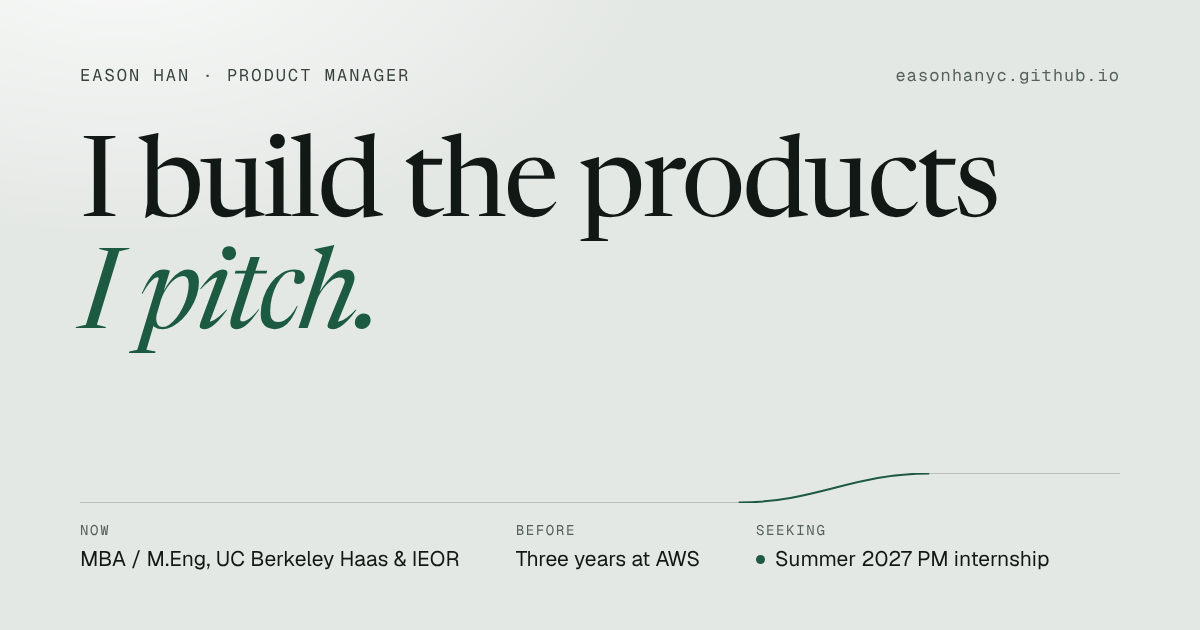
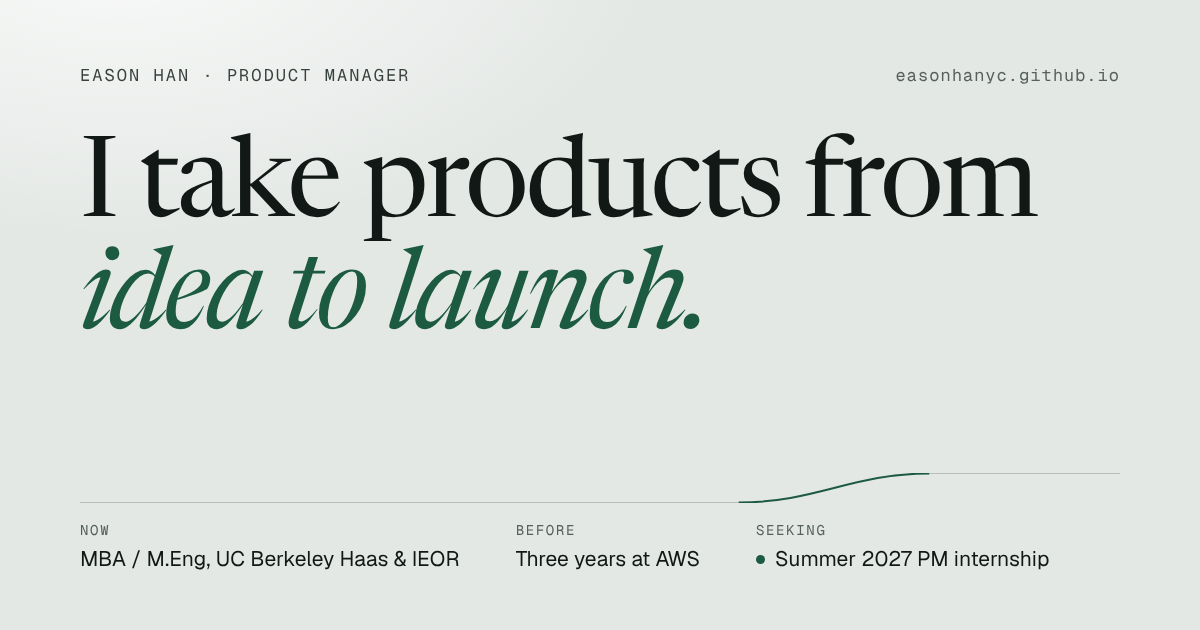
Add the portrait and a plainer headline
The opening section now carries a portrait: to the right of the headline
on a laptop, a small square beside the name on a phone. Served as WebP in
three sizes.

The headline changes from "I build the products I pitch." to "I take
products from idea to launch.", which says the same thing more plainly
and is backed by the two projects directly below it. The link preview
image and its description follow.

Claude-Session: https://claude.ai/code/session_01Y5LzhoYHnZFHzjp3DP478k

Changed region(s): [[0.1233, 0.2111, 0.8633, 0.3921], [0.0617, 0.3921, 0.5858, 0.573]]

diff --git a/src/styles/global.css b/src/styles/global.css
@@ -371,22 +371,41 @@ h3{font:600 var(--t-sub)/1.25 var(--f-sans); letter-spacing:-.02em}
    Home. Kept here rather than scoped to the page, because the rides
    board writes some of its own markup at runtime.
    ============================================================ */
-/* 1. Opening: who, the pitch, one line of background, how to reach me. */
-.hero{padding-top:clamp(44px,9vh,112px)}
+/* 1. Opening: who, the pitch, one line of background, how to reach me.
+   On a phone the portrait is a small square beside the name; on a laptop it
+   stands to the right of the pitch. */
+.hero{
+  padding-top:clamp(40px,7vh,96px);
+  display:grid; grid-template-columns:84px minmax(0,1fr); column-gap:18px; align-items:center;
+  grid-template-areas:"photo top" "pitch pitch" "bio bio" "links links";
+}
+.hero-top{grid-area:top; display:flex; flex-direction:column; gap:6px}
+.hero-name{font:600 var(--t-sub)/1.2 var(--f-sans); letter-spacing:-.02em; margin:0}
+.hero-name span{display:block; font-weight:400; color:var(--ink-3)}
+.hero-name i{display:none; font-style:normal}
+.hero-seek{margin:0; font-size:var(--t-small); font-weight:600; color:var(--accent)}
+.hero-photo{
+  grid-area:photo; display:block; width:100%; height:auto; aspect-ratio:1; object-fit:cover; object-position:50% 22%;
+  border-radius:var(--r); border:1px solid var(--rule); background:var(--bg-2);
+}
+.hero-pitch{grid-area:pitch; max-width:15ch; margin:clamp(24px,3.6vh,48px) 0 clamp(20px,3.6vh,40px)}
+.hero-bio{grid-area:bio; font-size:var(--t-sub); line-height:1.5; color:var(--ink-2); max-width:38ch; margin:0 0 clamp(22px,4vh,36px); letter-spacing:-.005em}
+.hero-bio strong{color:var(--ink); font-weight:600}
+.hero-links{grid-area:links; display:flex; flex-wrap:wrap; gap:6px 28px; margin:0; font-size:var(--t-small)}
 /* On a laptop the opening fills the first screen, and the next section's
    heading shows at its foot as the cue to scroll. */
 @media (min-width:960px){
-  .hero{min-height:min(calc(100svh - 190px), 720px); display:flex; flex-direction:column; justify-content:center; padding-top:clamp(32px,5vh,64px)}
+  .hero{
+    min-height:min(calc(100svh - 190px), 720px); padding-top:clamp(32px,5vh,64px);
+    grid-template-columns:minmax(0,1fr) clamp(260px,25vw,340px); column-gap:clamp(32px,6vw,96px);
+    grid-template-areas:"top top" "pitch photo" "bio photo" "links photo"; align-content:center;
+  }
+  .hero-top{flex-direction:row; flex-wrap:wrap; justify-content:space-between; align-items:baseline; gap:6px 24px}
+  .hero-name span{display:inline}
+  .hero-name i{display:inline}
+  .hero-photo{aspect-ratio:4 / 5; box-shadow:var(--shadow); align-self:center; margin-top:20px}
 }
 .hero + .sec{padding-top:clamp(40px,5vw,56px)}
-.hero-top{display:flex; flex-wrap:wrap; justify-content:space-between; align-items:baseline; gap:6px 24px; margin-bottom:clamp(28px,5vh,56px)}
-.hero-name{font:600 var(--t-sub)/1.2 var(--f-sans); letter-spacing:-.02em; margin:0}
-.hero-name span{font-weight:400; color:var(--ink-3)}
-.hero-seek{margin:0; font-size:var(--t-small); font-weight:600; color:var(--accent)}
-.hero-pitch{max-width:13ch; margin-bottom:clamp(24px,4vh,44px)}
-.hero-bio{font-size:var(--t-sub); line-height:1.5; color:var(--ink-2); max-width:38ch; margin:0 0 clamp(24px,4vh,40px); letter-spacing:-.005em}
-.hero-bio strong{color:var(--ink); font-weight:600}
-.hero-links{display:flex; flex-wrap:wrap; gap:6px 28px; margin:0; font-size:var(--t-small)}
 
 /* 2 and 3. The two featured projects: one template, so they read as a pair.
    Words on the left, the product itself on the right. */

diff --git a/scripts/og-card.html b/scripts/og-card.html
@@ -15,7 +15,7 @@
 </style>
 <div class="frame">
   <div class="top"><span>Eason Han · Product manager</span><span class="url">easonhanyc.github.io</span></div>
-  <h1>I build the products<br><em>I pitch.</em></h1>
+  <h1>I take products from<br><em>idea to launch.</em></h1>
   <svg viewBox="0 0 1200 30" preserveAspectRatio="none" aria-hidden="true">
     <path d="M0 29.5 H760" stroke="rgba(17,32,25,.2)" stroke-width="1"/>
     <path d="M760 29.5 C 850 29.5, 890 0.5, 980 0.5" stroke="#1D5A42" stroke-width="2"/>
